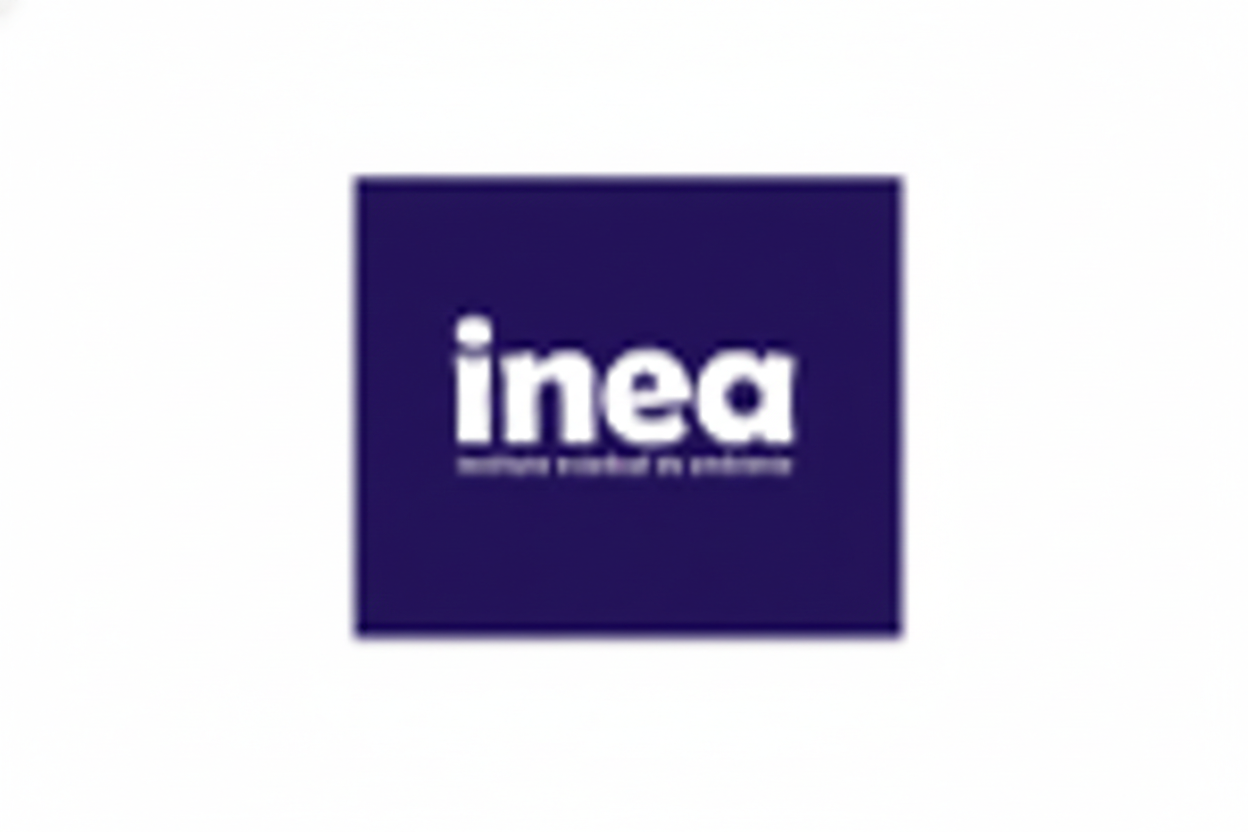
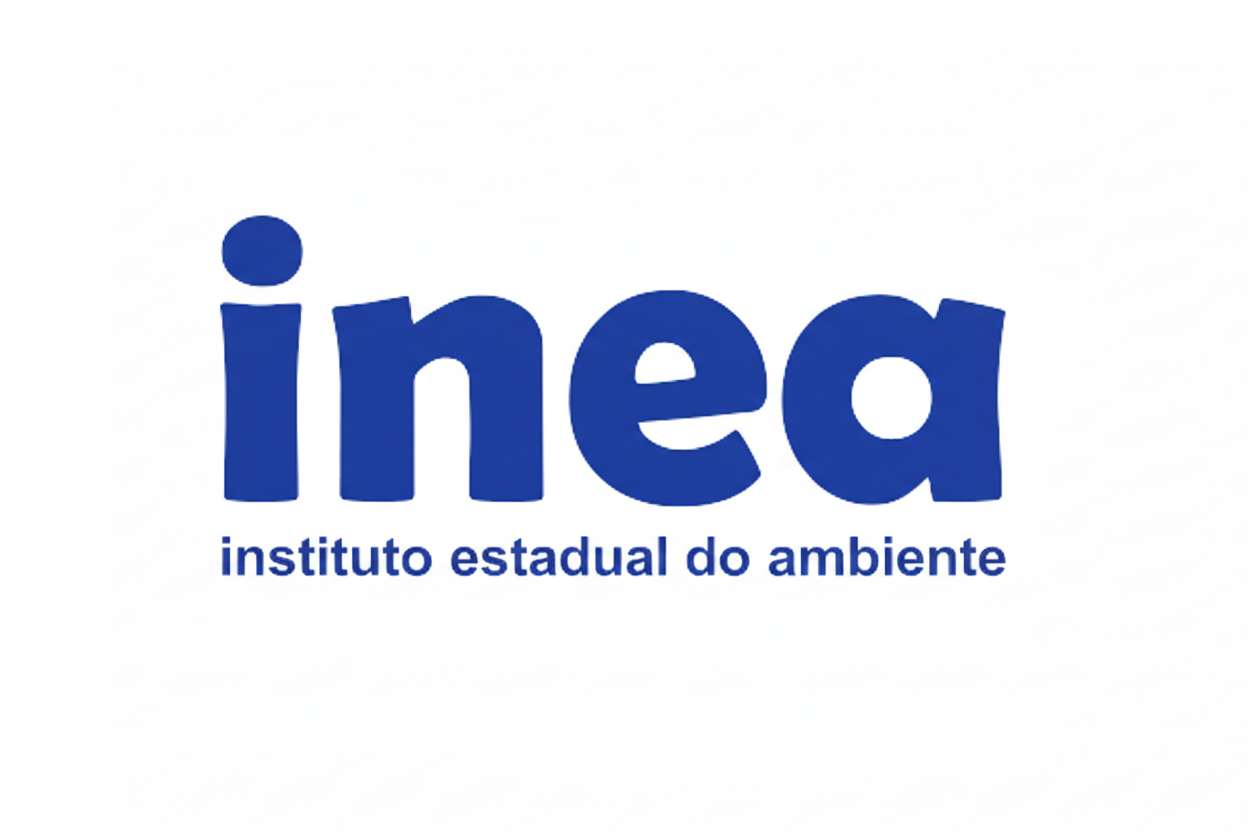
update: nova imagem do inea e nova distribuição dos clientes na tela

Changed region(s): [[0.1562, 0.1875, 0.8125, 0.7812]]

diff --git a/index.html b/index.html
@@ -206,42 +206,44 @@
                 </div>
             </div>
             <div class="row g-3">
-                <div class="col-6 col-md-4 col-lg-2 galeria-clientes">
+                <div class="col-6 col-md-3 galeria-clientes">
                     <img src="img/cliente-governo-do-rio-de-janeiro.png" alt="Governo do Rio de Janeiro" class="img-fluid mb-3" />
                 </div>
-                <div class="col-6 col-md-4 col-lg-2 galeria-clientes">
+                <div class="col-6 col-md-3 galeria-clientes">
                     <img src="img/cliente-prefeitura-angra-dos-reis.png" alt="Prefeitura de Angra dos Reis" class="img-fluid mb-3" />
                 </div>
-                <div class="col-6 col-md-4 col-lg-2 galeria-clientes">
+                <div class="col-6 col-md-3 galeria-clientes">
                     <img src="img/cliente-inea.png" alt="INEA" class="img-fluid mb-3" />
                 </div>
-                <div class="col-6 col-md-4 col-lg-2 galeria-clientes">
+                <div class="col-6 col-md-3 galeria-clientes">
                     <img src="img/cliente-technip.png" alt="Technip" class="img-fluid mb-3" />
                 </div>
-                <div class="col-6 col-md-4 col-lg-2 galeria-clientes">
+            </div>
+            <div class="row mt-2 mt-md-0 g-3">
+                <div class="col-6 col-md-3 galeria-clientes">
                     <img src="img/cliente-turisangra.png" alt="Turisangra" class="img-fluid mb-3" />
                 </div>
-                <div class="col-6 col-md-4 col-lg-2 galeria-clientes">
+                <div class="col-6 col-md-3 galeria-clientes">
                     <img src="img/cliente-brasfels.png" alt="Brasfels" class="img-fluid mb-3" />
                 </div>
-            </div>
-            <div class="row mt-2 mt-lg-4 g-3">
-                <div class="col-6 col-md-4 col-lg-2 galeria-clientes">
+                <div class="col-6 col-md-3 galeria-clientes">
                     <img src="img/cliente-saae.png" alt="SAAE" class="img-fluid mb-3" />
                 </div>
-                <div class="col-6 col-md-4 col-lg-2 galeria-clientes">
+                <div class="col-6 col-md-3 galeria-clientes">
                     <img src="img/cliente-eletrobras.png" alt="Eletrobras" class="img-fluid mb-3" />
                 </div>
-                <div class="col-6 col-md-4 col-lg-2 galeria-clientes">
+            </div>
+            <div class="row mt-2 mt-md-0 g-3">
+                <div class="col-6 col-md-3 galeria-clientes">
                     <img src="img/cliente-fasano.png" alt="Fasano" class="img-fluid mb-3" />
                 </div>
-                <div class="col-6 col-md-4 col-lg-2 galeria-clientes">
+                <div class="col-6 col-md-3 galeria-clientes">
                     <img src="img/cliente-frade.png" alt="FRAD.E" class="img-fluid mb-3" />
                 </div>
-                <div class="col-6 col-md-4 col-lg-2 galeria-clientes">
+                <div class="col-6 col-md-3 galeria-clientes">
                     <img src="img/cliente-bhg.png" alt="BHG" class="img-fluid mb-3" />
                 </div>
-                <div class="col-6 col-md-4 col-lg-2 galeria-clientes">
+                <div class="col-6 col-md-3 galeria-clientes">
                     <img src="img/cliente-vila-gale.png" alt="Vila Galé Hotéis" class="img-fluid mb-3" />
                 </div>
             </div>
